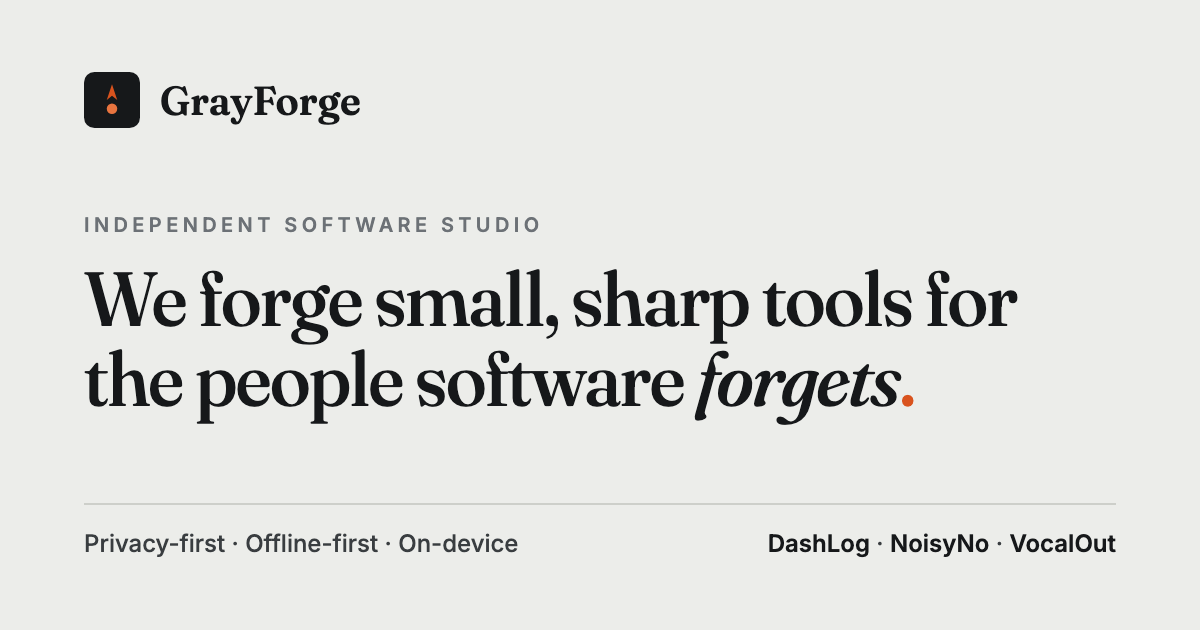
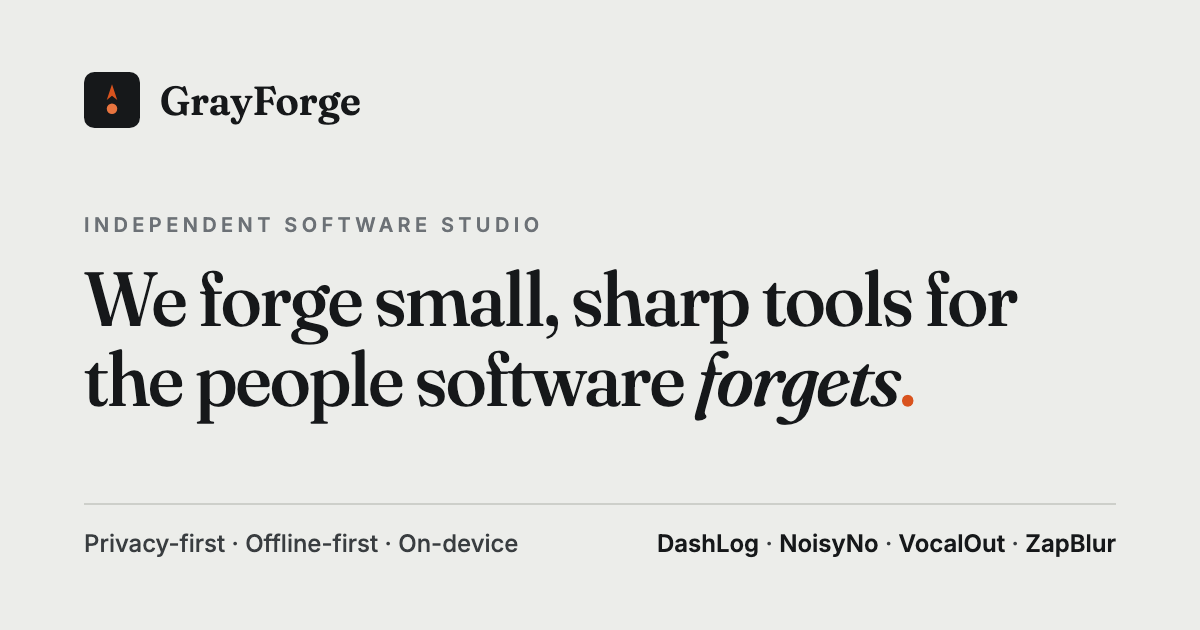
Mark ZapBlur as released on the App Store (iOS)
ZapBlur iOS shipped on 2026-10-31 (App Store id6824579189). Replace the coming-soon wording with App Store links on the home card, /products/, zapblur/ and ko/zapblur/, add sameAs and offers to the JSON-LD, add the privacy policy to the sitemap, and update llms.txt and the OG image.
Android is still listed as coming soon; the checklist tracks what to change at the Android launch.

Changed region(s): [[0.5242, 0.8444, 0.925, 0.8746]]

diff --git a/ko/zapblur/index.html b/ko/zapblur/index.html
@@ -33,7 +33,7 @@
 <meta name="twitter:title" content="올리기 전에 사진 속 행인 얼굴과 원하는 곳을 가리세요 - ZapBlur">
 <meta name="twitter:description" content="올리기 전에 사진 속 행인 얼굴은 자동으로 찾아 가려요. 얼굴이 아닌 곳도 원하는 곳은 직접 가릴 수 있고, 사진은 기기 안에서 처리돼요.">
 <meta name="twitter:image" content="https://grayforge.app/zapblur/og.png">
-<script type="application/ld+json">{"@context":"https://schema.org","@graph":[{"@type":"MobileApplication","@id":"https://grayforge.app/zapblur/#app","name":"ZapBlur","operatingSystem":["iOS","Android"],"applicationCategory":"MultimediaApplication","description":"사진 속 행인 얼굴은 자동으로 찾아 가리고, 그 밖의 원하는 곳은 직접 가리는 사진 모자이크 앱. 사진은 기기 안에서 처리됩니다.","url":"https://grayforge.app/zapblur/","image":"https://grayforge.app/zapblur/og.png","inLanguage":["ko","en"],"publisher":{"@type":"Organization","@id":"https://grayforge.app/#organization","name":"GrayForge","url":"https://grayforge.app/"}},{"@type":"WebPage","@id":"https://grayforge.app/ko/zapblur/#webpage","url":"https://grayforge.app/ko/zapblur/","name":"ZapBlur - 행인 얼굴 모자이크 앱, 원하는 곳은 직접 가리기","description":"올리기 전에 사진 속 행인 얼굴은 자동으로 찾아 가려요. 얼굴이 아닌 곳도 원하는 곳은 직접 가릴 수 있고, 사진은 기기 안에서 처리돼요.","inLanguage":"ko","dateModified":"2026-10-17","about":{"@id":"https://grayforge.app/zapblur/#app"},"publisher":{"@type":"Organization","@id":"https://grayforge.app/#organization","name":"GrayForge","url":"https://grayforge.app/","logo":{"@type":"ImageObject","url":"https://grayforge.app/assets/grayforge-logo-512.png","width":512,"height":512}}},{"@type":"FAQPage","@id":"https://grayforge.app/ko/zapblur/#faq","inLanguage":"ko","isPartOf":{"@id":"https://grayforge.app/ko/zapblur/#webpage"},"mainEntity":[{"@type":"Question","name":"얼굴이 아닌 것도 가릴 수 있나요?","acceptedAnswer":{"@type":"Answer","text":"네, 직접 가릴 수 있어요. 가리고 싶은 곳을 탭하면 그 자리에 타원이나 사각형이 놓이고, 끌어서 옮기고 모서리로 크기를 조절할 수 있어요. 자동으로 찾는 건 얼굴뿐이에요. 다른 건 직접 가려 주세요. 가린 뒤에는 확대해서 알아볼 수 있는지 확인해 주세요."}},{"@type":"Question","name":"가린 곳을 복원할 수 있나요?","acceptedAnswer":{"@type":"Answer","text":"가린 방식에 따라 알아볼 수 있는 경우가 있어요. 약한 강도일수록 그래요. 그래서 ZapBlur는 너무 약한 단계를 제공하지 않아요. 가장 확실한 방법은 단색으로 가리는 거예요."}},{"@type":"Question","name":"얼굴을 못 찾으면요?","acceptedAnswer":{"@type":"Answer","text":"작은 얼굴, 옆모습, 마스크나 선글라스를 쓴 얼굴은 놓칠 수 있어요. 놓친 얼굴은 탭하면 바로 가릴 수 있고, 얼굴을 하나도 못 찾았을 때도 직접 가릴 수 있어요."}},{"@type":"Question","name":"사진을 서버로 보내나요?","acceptedAnswer":{"@type":"Answer","text":"아니요. 얼굴 찾기, 가리기, 저장은 기기 안에서 처리돼요. 직접 가린 영역과 그 안의 내용도 서버로 전송되지 않아요. 사용 통계와 오류 정보가 Google Firebase로 전송되고, 여기에 사진·얼굴·위치 정보는 포함되지 않아요. Android에서는 얼굴 찾기에 쓰는 Google ML Kit이 기기·성능 정보를 자체적으로 보낼 수 있고, 여기에도 사진·얼굴 정보는 포함되지 않아요."}},{"@type":"Question","name":"여러 장을 한꺼번에 가릴 수 있나요?","acceptedAnswer":{"@type":"Answer","text":"아니요, 지금은 한 장씩 가려요."}},{"@type":"Question","name":"앱을 전환할 때 편집 중인 화면이 가려지나요?","acceptedAnswer":{"@type":"Answer","text":"아니요, 아직 지원하지 않아요. 최근 앱 목록에서 편집 중인 사진이 보일 수 있어요."}},{"@type":"Question","name":"앞으로 유료로 바뀌나요?","acceptedAnswer":{"@type":"Answer","text":"지금은 모든 기능을 무료로 쓸 수 있어요. 현재 사진 기능을 유료로 바꿀 계획은 없고, 바뀌게 되면 미리 알리고 날짜와 함께 기록해요. 안전 기능(너무 약한 강도 차단, 찾은 얼굴 기본 가림, 촬영 정보 삭제)은 앞으로도 유료로 바꾸지 않아요. 기준일과 목록은 개인정보처리방침 부록에 있어요."}}]}]}</script>
+<script type="application/ld+json">{"@context":"https://schema.org","@graph":[{"@type":"MobileApplication","@id":"https://grayforge.app/zapblur/#app","name":"ZapBlur","operatingSystem":["iOS"],"applicationCategory":"MultimediaApplication","description":"사진 속 행인 얼굴은 자동으로 찾아 가리고, 그 밖의 원하는 곳은 직접 가리는 사진 모자이크 앱. 사진은 기기 안에서 처리됩니다.","url":"https://grayforge.app/zapblur/","image":"https://grayforge.app/zapblur/og.png","inLanguage":["ko","en"],"publisher":{"@type":"Organization","@id":"https://grayforge.app/#organization","name":"GrayForge","url":"https://grayforge.app/"},"alternateName":"ZapBlur: Pixelate & Censor","offers":{"@type":"Offer","price":"0","priceCurrency":"USD"},"downloadUrl":"https://apps.apple.com/app/id6824579189","sameAs":["https://apps.apple.com/app/id6824579189"]},{"@type":"WebPage","@id":"https://grayforge.app/ko/zapblur/#webpage","url":"https://grayforge.app/ko/zapblur/","name":"ZapBlur - 행인 얼굴 모자이크 앱, 원하는 곳은 직접 가리기","description":"올리기 전에 사진 속 행인 얼굴은 자동으로 찾아 가려요. 얼굴이 아닌 곳도 원하는 곳은 직접 가릴 수 있고, 사진은 기기 안에서 처리돼요.","inLanguage":"ko","dateModified":"2026-11-07","about":{"@id":"https://grayforge.app/zapblur/#app"},"publisher":{"@type":"Organization","@id":"https://grayforge.app/#organization","name":"GrayForge","url":"https://grayforge.app/","logo":{"@type":"ImageObject","url":"https://grayforge.app/assets/grayforge-logo-512.png","width":512,"height":512}}},{"@type":"FAQPage","@id":"https://grayforge.app/ko/zapblur/#faq","inLanguage":"ko","isPartOf":{"@id":"https://grayforge.app/ko/zapblur/#webpage"},"mainEntity":[{"@type":"Question","name":"얼굴이 아닌 것도 가릴 수 있나요?","acceptedAnswer":{"@type":"Answer","text":"네, 직접 가릴 수 있어요. 가리고 싶은 곳을 탭하면 그 자리에 타원이나 사각형이 놓이고, 끌어서 옮기고 모서리로 크기를 조절할 수 있어요. 자동으로 찾는 건 얼굴뿐이에요. 다른 건 직접 가려 주세요. 가린 뒤에는 확대해서 알아볼 수 있는지 확인해 주세요."}},{"@type":"Question","name":"가린 곳을 복원할 수 있나요?","acceptedAnswer":{"@type":"Answer","text":"가린 방식에 따라 알아볼 수 있는 경우가 있어요. 약한 강도일수록 그래요. 그래서 ZapBlur는 너무 약한 단계를 제공하지 않아요. 가장 확실한 방법은 단색으로 가리는 거예요."}},{"@type":"Question","name":"얼굴을 못 찾으면요?","acceptedAnswer":{"@type":"Answer","text":"작은 얼굴, 옆모습, 마스크나 선글라스를 쓴 얼굴은 놓칠 수 있어요. 놓친 얼굴은 탭하면 바로 가릴 수 있고, 얼굴을 하나도 못 찾았을 때도 직접 가릴 수 있어요."}},{"@type":"Question","name":"사진을 서버로 보내나요?","acceptedAnswer":{"@type":"Answer","text":"아니요. 얼굴 찾기, 가리기, 저장은 기기 안에서 처리돼요. 직접 가린 영역과 그 안의 내용도 서버로 전송되지 않아요. 사용 통계와 오류 정보가 Google Firebase로 전송되고, 여기에 사진·얼굴·위치 정보는 포함되지 않아요. Android에서는 얼굴 찾기에 쓰는 Google ML Kit이 기기·성능 정보를 자체적으로 보낼 수 있고, 여기에도 사진·얼굴 정보는 포함되지 않아요."}},{"@type":"Question","name":"여러 장을 한꺼번에 가릴 수 있나요?","acceptedAnswer":{"@type":"Answer","text":"아니요, 지금은 한 장씩 가려요."}},{"@type":"Question","name":"앱을 전환할 때 편집 중인 화면이 가려지나요?","acceptedAnswer":{"@type":"Answer","text":"아니요, 아직 지원하지 않아요. 최근 앱 목록에서 편집 중인 사진이 보일 수 있어요."}},{"@type":"Question","name":"앞으로 유료로 바뀌나요?","acceptedAnswer":{"@type":"Answer","text":"지금은 모든 기능을 무료로 쓸 수 있어요. 현재 사진 기능을 유료로 바꿀 계획은 없고, 바뀌게 되면 미리 알리고 날짜와 함께 기록해요. 안전 기능(너무 약한 강도 차단, 찾은 얼굴 기본 가림, 촬영 정보 삭제)은 앞으로도 유료로 바꾸지 않아요. 기준일과 목록은 개인정보처리방침 부록에 있어요."}}]}]}</script>
   <script type="application/ld+json">
   {
     "@context": "https://schema.org",
@@ -70,8 +70,8 @@
 <div class="measure">
 <h1>올리기 전에 사진 속 행인 얼굴과 원하는 곳을 가리세요</h1>
 <p class="sub">거리·카페·여행지 사진에 찍힌 행인 얼굴은 자동으로 찾아 모자이크해요. 그 밖에 가리고 싶은 곳은 직접 가릴 수 있어요. 사진은 기기 안에서 처리돼요.</p>
-<p class="status" data-grep-allow="coming-soon">곧 App Store와 Google Play에 출시돼요.</p>
-<p class="cta"><a href="#privacy">개인정보 한눈에 보기</a></p>
+<p class="status" data-grep-allow="coming-soon">지금 App Store에서 iPhone용으로 받을 수 있어요. Android 버전은 곧 출시돼요.</p>
+<p class="cta"><a href="https://apps.apple.com/app/id6824579189" rel="noopener">App Store에서 받기</a><span aria-hidden="true"> · </span><a href="#privacy">개인정보 한눈에 보기</a></p>
 </div>
 <div class="mark" aria-hidden="true"><i></i><i></i><i></i><i></i><i></i><i></i><i></i><i></i><i></i></div>
 </div>

diff --git a/zapblur/index.html b/zapblur/index.html
@@ -33,7 +33,7 @@
 <meta name="twitter:title" content="Cover bystanders&#x27; faces before you post - ZapBlur">
 <meta name="twitter:description" content="ZapBlur covers bystanders&#x27; faces automatically. Cover anything else by hand. Photos are processed on your device.">
 <meta name="twitter:image" content="https://grayforge.app/zapblur/og.png">
-<script type="application/ld+json">{"@context":"https://schema.org","@graph":[{"@type":"MobileApplication","@id":"https://grayforge.app/zapblur/#app","name":"ZapBlur","operatingSystem":["iOS","Android"],"applicationCategory":"MultimediaApplication","description":"ZapBlur covers bystanders' faces automatically. Cover anything else by hand. Photos are processed on your device.","url":"https://grayforge.app/zapblur/","image":"https://grayforge.app/zapblur/og.png","inLanguage":["ko","en"],"publisher":{"@type":"Organization","@id":"https://grayforge.app/#organization","name":"GrayForge","url":"https://grayforge.app/"}},{"@type":"WebPage","@id":"https://grayforge.app/zapblur/#webpage","url":"https://grayforge.app/zapblur/","name":"ZapBlur - Face Blur App, Cover Anything Else by Hand","description":"ZapBlur covers bystanders' faces automatically. Cover anything else by hand. Photos are processed on your device.","inLanguage":"en","dateModified":"2026-10-17","about":{"@id":"https://grayforge.app/zapblur/#app"},"publisher":{"@type":"Organization","@id":"https://grayforge.app/#organization","name":"GrayForge","url":"https://grayforge.app/","logo":{"@type":"ImageObject","url":"https://grayforge.app/assets/grayforge-logo-512.png","width":512,"height":512}}},{"@type":"FAQPage","@id":"https://grayforge.app/zapblur/#faq","inLanguage":"en","isPartOf":{"@id":"https://grayforge.app/zapblur/#webpage"},"mainEntity":[{"@type":"Question","name":"Can it cover things other than faces?","acceptedAnswer":{"@type":"Answer","text":"Yes, by hand. Tap the spot you want to cover and an oval or rectangle is placed there. Drag it to move it, or drag a corner to resize it. Only faces are found automatically. After covering, zoom in and check that nothing is still readable or recognizable."}},{"@type":"Question","name":"Can covered areas be restored?","acceptedAnswer":{"@type":"Answer","text":"Depending on how an area is covered, it may still be recognizable, and weaker strengths are more likely to be. That is why ZapBlur does not offer very weak steps. Solid fill is the surest option."}},{"@type":"Question","name":"What if it misses a face?","acceptedAnswer":{"@type":"Answer","text":"Small faces, side views, masks and sunglasses can be missed. Tap a missed face to cover it. This works even when no face is found at all."}},{"@type":"Question","name":"Do you send my photos to a server?","acceptedAnswer":{"@type":"Answer","text":"No. Finding faces, covering them and saving all happen on your device. Areas you cover by hand, and what is inside them, are not sent either. Usage stats and crash reports are sent to Google Firebase, and they do not include photos, faces or location. On Android, Google ML Kit, which finds the faces, may also send device and performance info on its own, and that does not include photos or faces."}},{"@type":"Question","name":"Can I cover several photos at once?","acceptedAnswer":{"@type":"Answer","text":"No. You cover one photo at a time."}},{"@type":"Question","name":"Does it hide the screen when I switch apps?","acceptedAnswer":{"@type":"Answer","text":"No, not yet. The photo you are editing may be visible in the recent apps list."}},{"@type":"Question","name":"Will it become paid?","acceptedAnswer":{"@type":"Answer","text":"Right now every feature is free. We have no plan to make today's photo features paid, and if that changes we will announce it in advance and log the date. Safety features (blocking very weak strengths, covering detected faces by default, removing shooting info) will not become paid. The date and list are in the privacy policy appendix."}}]}]}</script>
+<script type="application/ld+json">{"@context":"https://schema.org","@graph":[{"@type":"MobileApplication","@id":"https://grayforge.app/zapblur/#app","name":"ZapBlur","operatingSystem":["iOS"],"applicationCategory":"MultimediaApplication","description":"ZapBlur covers bystanders' faces automatically. Cover anything else by hand. Photos are processed on your device.","url":"https://grayforge.app/zapblur/","image":"https://grayforge.app/zapblur/og.png","inLanguage":["ko","en"],"publisher":{"@type":"Organization","@id":"https://grayforge.app/#organization","name":"GrayForge","url":"https://grayforge.app/"},"alternateName":"ZapBlur: Pixelate & Censor","offers":{"@type":"Offer","price":"0","priceCurrency":"USD"},"downloadUrl":"https://apps.apple.com/app/id6824579189","sameAs":["https://apps.apple.com/app/id6824579189"]},{"@type":"WebPage","@id":"https://grayforge.app/zapblur/#webpage","url":"https://grayforge.app/zapblur/","name":"ZapBlur - Face Blur App, Cover Anything Else by Hand","description":"ZapBlur covers bystanders' faces automatically. Cover anything else by hand. Photos are processed on your device.","inLanguage":"en","dateModified":"2026-11-07","about":{"@id":"https://grayforge.app/zapblur/#app"},"publisher":{"@type":"Organization","@id":"https://grayforge.app/#organization","name":"GrayForge","url":"https://grayforge.app/","logo":{"@type":"ImageObject","url":"https://grayforge.app/assets/grayforge-logo-512.png","width":512,"height":512}}},{"@type":"FAQPage","@id":"https://grayforge.app/zapblur/#faq","inLanguage":"en","isPartOf":{"@id":"https://grayforge.app/zapblur/#webpage"},"mainEntity":[{"@type":"Question","name":"Can it cover things other than faces?","acceptedAnswer":{"@type":"Answer","text":"Yes, by hand. Tap the spot you want to cover and an oval or rectangle is placed there. Drag it to move it, or drag a corner to resize it. Only faces are found automatically. After covering, zoom in and check that nothing is still readable or recognizable."}},{"@type":"Question","name":"Can covered areas be restored?","acceptedAnswer":{"@type":"Answer","text":"Depending on how an area is covered, it may still be recognizable, and weaker strengths are more likely to be. That is why ZapBlur does not offer very weak steps. Solid fill is the surest option."}},{"@type":"Question","name":"What if it misses a face?","acceptedAnswer":{"@type":"Answer","text":"Small faces, side views, masks and sunglasses can be missed. Tap a missed face to cover it. This works even when no face is found at all."}},{"@type":"Question","name":"Do you send my photos to a server?","acceptedAnswer":{"@type":"Answer","text":"No. Finding faces, covering them and saving all happen on your device. Areas you cover by hand, and what is inside them, are not sent either. Usage stats and crash reports are sent to Google Firebase, and they do not include photos, faces or location. On Android, Google ML Kit, which finds the faces, may also send device and performance info on its own, and that does not include photos or faces."}},{"@type":"Question","name":"Can I cover several photos at once?","acceptedAnswer":{"@type":"Answer","text":"No. You cover one photo at a time."}},{"@type":"Question","name":"Does it hide the screen when I switch apps?","acceptedAnswer":{"@type":"Answer","text":"No, not yet. The photo you are editing may be visible in the recent apps list."}},{"@type":"Question","name":"Will it become paid?","acceptedAnswer":{"@type":"Answer","text":"Right now every feature is free. We have no plan to make today's photo features paid, and if that changes we will announce it in advance and log the date. Safety features (blocking very weak strengths, covering detected faces by default, removing shooting info) will not become paid. The date and list are in the privacy policy appendix."}}]}]}</script>
   <script type="application/ld+json">
   {
     "@context": "https://schema.org",
@@ -70,8 +70,8 @@
 <div class="measure">
 <h1>Cover bystanders&#x27; faces before you post</h1>
 <p class="sub">ZapBlur finds faces in your street, cafe and trip photos and pixelates them automatically. Cover anything else by hand. Photos are processed on your device.</p>
-<p class="status" data-grep-allow="coming-soon">Coming soon to the App Store and Google Play.</p>
-<p class="cta"><a href="#privacy">Your privacy at a glance</a></p>
+<p class="status" data-grep-allow="coming-soon">Out now on the App Store for iPhone. The Android version is coming soon.</p>
+<p class="cta"><a href="https://apps.apple.com/app/id6824579189" rel="noopener">Download on the App Store</a><span aria-hidden="true"> · </span><a href="#privacy">Your privacy at a glance</a></p>
 </div>
 <div class="mark" aria-hidden="true"><i></i><i></i><i></i><i></i><i></i><i></i><i></i><i></i><i></i></div>
 </div>

diff --git a/products/index.html b/products/index.html
@@ -7,8 +7,8 @@
   <meta name="theme-color" content="#ECEDEA" media="(prefers-color-scheme: light)" />
   <meta name="theme-color" content="#131517" media="(prefers-color-scheme: dark)" />
 
-  <title>GrayForge Apps — DashLog, NoisyNo, VocalOut</title>
-  <meta name="description" content="Every app from GrayForge in one list: DashLog (GPS drive tracker), NoisyNo (voice noise remover) and VocalOut (vocal remover). Privacy-first, offline-first, no accounts." />
+  <title>GrayForge Apps — DashLog, NoisyNo, VocalOut, ZapBlur</title>
+  <meta name="description" content="Every GrayForge app in one list: DashLog, NoisyNo, VocalOut and ZapBlur — drive tracker, noise remover, vocal remover, face blur. No accounts." />
   <meta name="author" content="GrayForge" />
   <meta name="robots" content="index, follow, max-image-preview:large" />
   <link rel="canonical" href="https://grayforge.app/products/" />
@@ -18,15 +18,15 @@
   <meta property="og:type" content="website" />
   <meta property="og:site_name" content="GrayForge" />
   <meta property="og:url" content="https://grayforge.app/products/" />
-  <meta property="og:title" content="GrayForge Apps — DashLog, NoisyNo, VocalOut" />
+  <meta property="og:title" content="GrayForge Apps — DashLog, NoisyNo, VocalOut, ZapBlur" />
   <meta property="og:description" content="Small, sharp, privacy-first and offline-first apps from an independent one-person studio." />
   <meta property="og:image" content="https://grayforge.app/assets/og-grayforge.png" />
   <meta property="og:image:width" content="1200" />
   <meta property="og:image:height" content="630" />
-  <meta property="og:image:alt" content="GrayForge — independent software studio. Makers of DashLog, NoisyNo and VocalOut." />
+  <meta property="og:image:alt" content="GrayForge — independent software studio. Makers of DashLog, NoisyNo, VocalOut and ZapBlur." />
   <meta name="twitter:card" content="summary_large_image" />
   <meta name="twitter:title" content="GrayForge Apps" />
-  <meta name="twitter:description" content="DashLog, NoisyNo and VocalOut — privacy-first, offline-first apps with no accounts." />
+  <meta name="twitter:description" content="DashLog, NoisyNo, VocalOut and ZapBlur — privacy-first, offline-first apps with no accounts." />
 
   <script type="application/ld+json">
   {
@@ -47,11 +47,12 @@
         "@type": "ItemList",
         "@id": "https://grayforge.app/products/#list",
         "name": "GrayForge apps",
-        "numberOfItems": 3,
+        "numberOfItems": 4,
         "itemListElement": [
           {"@type": "ListItem", "position": 1, "item": {"@id": "https://grayforge.app/dashlog/#app", "name": "DashLog", "url": "https://grayforge.app/dashlog/"}},
           {"@type": "ListItem", "position": 2, "item": {"@id": "https://grayforge.app/noisyno/#app", "name": "NoisyNo", "url": "https://grayforge.app/noisyno/"}},
-          {"@type": "ListItem", "position": 3, "item": {"@id": "https://grayforge.app/vocalout/#app", "name": "VocalOut", "url": "https://grayforge.app/vocalout/"}}
+          {"@type": "ListItem", "position": 3, "item": {"@id": "https://grayforge.app/vocalout/#app", "name": "VocalOut", "url": "https://grayforge.app/vocalout/"}},
+          {"@type": "ListItem", "position": 4, "item": {"@id": "https://grayforge.app/zapblur/#app", "name": "ZapBlur", "url": "https://grayforge.app/zapblur/"}}
         ]
       }
     ]
@@ -198,6 +199,7 @@
     .s-dashlog  { background: radial-gradient(120% 90% at 50% 0%, #2f6bd6 0%, #123a7a 55%, #0a1a38 100%); }
     .s-noisyno  { background: radial-gradient(120% 90% at 50% 0%, #e0a13d 0%, #a8691a 55%, #3b2810 100%); }
     .s-vocalout { background: radial-gradient(120% 90% at 50% 0%, #5a4616 0%, #25200f 55%, #0c0e11 100%); }
+    .s-zapblur  { background: radial-gradient(120% 90% at 50% 0%, #ff2d8b 0%, #b00058 55%, #2a0c1a 100%); }
 
     .body { display: flex; flex-direction: column; flex: 1; padding: 24px 26px 26px; }
 
@@ -377,6 +379,33 @@
               <a class="btn play" href="https://play.google.com/store/apps/details?id=com.grayforge.vocalout" aria-label="VocalOut on Google Play">Google Play</a>
             </div>
             <a class="more" href="../vocalout/">Learn more <span class="arrow" aria-hidden="true">→</span></a>
+          </div>
+        </div>
+      </li>
+
+      <!-- ZapBlur (iOS released 2026-10-31; Android coming soon) -->
+      <li class="card">
+        <div class="stage s-zapblur">
+          <img src="assets/zapblur-1.webp" alt="ZapBlur covering the faces it found in a group photo" width="660" height="1434" loading="lazy" decoding="async" />
+          <img src="assets/zapblur-2.webp" alt="ZapBlur covering a license plate by hand with a rectangle" width="660" height="1434" loading="lazy" decoding="async" />
+          <img src="assets/zapblur-3.webp" alt="ZapBlur leaving one face visible and the others covered" width="660" height="1434" loading="lazy" decoding="async" />
+        </div>
+        <div class="body">
+          <div class="head">
+            <div class="icon"><img src="../zapblur/assets/icon-192.png" alt="" width="64" height="64" /></div>
+            <div>
+              <h2>ZapBlur</h2>
+              <span class="cat">Face Blur</span>
+            </div>
+          </div>
+          <p class="desc">Cover bystanders' faces before you post. ZapBlur finds the faces in a photo and covers them automatically; you cover anything else by hand. Photos are processed on your device.</p>
+          <ul class="tags"><li>On-device</li><li>No ads</li><li>No account</li></ul>
+          <p class="platforms"><strong>iPhone</strong> · Android coming soon</p>
+          <div class="actions">
+            <div class="stores">
+              <a class="btn ios" href="https://apps.apple.com/app/id6824579189" aria-label="ZapBlur on the App Store">App Store</a>
+            </div>
+            <a class="more" href="../zapblur/">Learn more <span class="arrow" aria-hidden="true">→</span></a>
           </div>
         </div>
       </li>

diff --git a/index.html b/index.html
@@ -6,7 +6,7 @@
 
   <!-- Primary SEO -->
   <title>GrayForge — Independent software studio</title>
-  <meta name="description" content="GrayForge is a one-person software studio making small, privacy-first, offline-first apps: DashLog, NoisyNo and VocalOut. ZapBlur is coming soon." />
+  <meta name="description" content="GrayForge is a one-person software studio making small, privacy-first, offline-first apps: DashLog, NoisyNo, VocalOut and ZapBlur." />
   <meta name="keywords" content="GrayForge, independent software studio, indie developer, privacy-first apps, offline apps, on-device, niche software, DashLog, NoisyNo, VocalOut" />
   <meta name="author" content="GrayForge" />
   <meta name="robots" content="index, follow, max-image-preview:large" />
@@ -21,11 +21,11 @@
   <meta property="og:site_name" content="GrayForge" />
   <meta property="og:url" content="https://grayforge.app/" />
   <meta property="og:title" content="GrayForge — Independent software studio" />
-  <meta property="og:description" content="An independent one-person studio forging small, sharp, privacy-first and offline-first tools. Makers of DashLog, NoisyNo and VocalOut. ZapBlur is coming soon." />
+  <meta property="og:description" content="An independent one-person studio forging small, sharp, privacy-first and offline-first tools. Makers of DashLog, NoisyNo, VocalOut and ZapBlur." />
   <meta property="og:image" content="https://grayforge.app/assets/og-grayforge.png" />
   <meta property="og:image:width" content="1200" />
   <meta property="og:image:height" content="630" />
-  <meta property="og:image:alt" content="GrayForge — We forge small, sharp tools for the people software forgets. Makers of DashLog, NoisyNo and VocalOut." />
+  <meta property="og:image:alt" content="GrayForge — We forge small, sharp tools for the people software forgets. Makers of DashLog, NoisyNo, VocalOut and ZapBlur." />
 
   <meta name="twitter:card" content="summary_large_image" />
   <meta name="twitter:title" content="GrayForge — Independent software studio" />
@@ -126,10 +126,14 @@
         "@id": "https://grayforge.app/zapblur/#app",
         "name": "ZapBlur",
         "url": "https://grayforge.app/zapblur/",
-        "description": "A face blur app for iOS and Android, coming soon. It finds bystanders' faces in a photo and covers them automatically; you cover anything else by hand. Photos are processed on your device.",
+        "alternateName": "ZapBlur: Pixelate & Censor",
+        "description": "A free face blur app for iPhone that finds bystanders' faces in a photo and covers them automatically; you cover anything else by hand. Photos are processed on your device. The Android version is coming soon.",
         "applicationCategory": "MultimediaApplication",
-        "operatingSystem": ["iOS", "Android"],
-        "publisher": {"@id": "https://grayforge.app/#organization"}
+        "operatingSystem": ["iOS"],
+        "publisher": {"@id": "https://grayforge.app/#organization"},
+        "sameAs": [
+          "https://apps.apple.com/app/id6824579189"
+        ]
       }
     ]
   }
@@ -406,7 +410,7 @@
           </div>
           <div class="item">
             <div class="k">Released</div>
-            <div class="v"><a href="#work">3 products ↓</a></div>
+            <div class="v"><a href="#work">4 products ↓</a></div>
           </div>
           <div class="item">
             <div class="k">Platforms</div>
@@ -456,7 +460,7 @@
         <div class="aside">
           <span class="label">Work</span>
           <div class="aside-title">Products</div>
-          <p class="aside-note">On the App Store and Google Play. ZapBlur is coming soon.</p>
+          <p class="aside-note">On the App Store and Google Play. ZapBlur for Android is coming soon.</p>
         </div>
 
         <div class="ledger">
@@ -524,21 +528,24 @@
             </div>
           </article>
 
-          <!-- ZapBlur (coming soon: no store links yet) -->
+          <!-- ZapBlur (iOS released 2026-10-31; Android coming soon) -->
           <article class="work reveal">
             <div class="idx">04</div>
             <div class="icon"><img src="zapblur/assets/icon-192.png" alt="ZapBlur app icon" loading="lazy" /></div>
             <div class="body">
               <div class="title-line">
                 <h3>ZapBlur</h3>
-                <span class="cat">Face Blur App · Coming soon</span>
+                <span class="cat">Face Blur App · 2026</span>
               </div>
               <p>Cover bystanders' faces before you post. ZapBlur finds the faces in a photo and pixelates them automatically; you cover anything else by hand. Photos are processed on your device.</p>
               <div class="tags"><span>On-device</span><span>No ads</span><span>No account</span></div>
             </div>
             <div class="links">
               <a class="open" href="zapblur/">Visit <span class="arrow">↗</span></a>
-              <div class="stores"><span class="soon">Coming soon to the App Store and Google Play</span></div>
+              <div class="stores">
+                <a href="https://apps.apple.com/app/id6824579189" target="_blank" rel="noopener">App Store</a>
+                <span class="soon">Android coming soon</span>
+              </div>
             </div>
           </article>
 

diff --git a/blog/index.html b/blog/index.html
@@ -26,7 +26,7 @@
   <meta property="og:image" content="https://grayforge.app/assets/og-grayforge.png" />
   <meta property="og:image:width" content="1200" />
   <meta property="og:image:height" content="630" />
-  <meta property="og:image:alt" content="GrayForge — independent software studio. Makers of DashLog, NoisyNo and VocalOut." />
+  <meta property="og:image:alt" content="GrayForge — independent software studio. Makers of DashLog, NoisyNo, VocalOut and ZapBlur." />
 
   <meta name="twitter:card" content="summary_large_image" />
   <meta name="twitter:title" content="GrayForge Journal" />

diff --git a/404.html b/404.html
@@ -74,6 +74,7 @@
         <li><a href="/dashlog/"><span class="t">DashLog</span><span class="d">GPS drive tracker</span></a></li>
         <li><a href="/noisyno/"><span class="t">NoisyNo</span><span class="d">Voice noise remover</span></a></li>
         <li><a href="/vocalout/"><span class="t">VocalOut</span><span class="d">Vocal remover</span></a></li>
+        <li><a href="/zapblur/"><span class="t">ZapBlur</span><span class="d">Face blur for photos</span></a></li>
         <li><a href="/blog/"><span class="t">Journal</span><span class="d">How-to guides</span></a></li>
       </ul>
     </div>

diff --git a/.github/AEO_GEO_CHECKLIST.md b/.github/AEO_GEO_CHECKLIST.md
@@ -31,7 +31,8 @@ Last reviewed: 2026-10-30
 - [ ] Validate JSON-LD and mobile layout after structural edits.
 - [ ] When a guide gets a translation, add the language link to the metabar of every language version, and point the matching localized product page at the localized guide.
 - [ ] Keep `<title>` within about 60 characters (CJK characters count double) and meta descriptions within about 155 characters.
-- [ ] ZapBlur launch: it is listed as *coming soon* (home card and JSON-LD without `sameAs`, `llms.txt`, `sitemap.xml`, IndexNow, the status line of `zapblur/` and `ko/zapblur/`). At launch replace the coming-soon wording everywhere with the store links, add `sameAs` to the home JSON-LD, add the ZapBlur privacy policy page to `sitemap.xml` (it is left out until the policy is final), add ZapBlur to `/products/`, and re-read the pages for claims that were true only before release.
+- [x] ZapBlur iOS launch (App Store id6824579189, released 2026-10-31): App Store links on the home card, `/products/`, `zapblur/` and `ko/zapblur/`; `sameAs` in the home and product-page JSON-LD; privacy policy added to `sitemap.xml`; `llms.txt` updated.
+- [ ] ZapBlur Android launch: it is still listed as *Android coming soon* (home card and aside note, `/products/` card, the status line of `zapblur/` and `ko/zapblur/`, `llms.txt`, and `operatingSystem: ["iOS"]` in the JSON-LD). At launch add the Google Play link everywhere, add Android to `operatingSystem` and the Play URL to `sameAs`, and re-read the pages for claims that were true only before the Android release.
 
 ## External Authority Gaps
 
@@ -44,6 +45,6 @@ Last reviewed: 2026-10-30
 
 - NoisyNo and DashLog are currently free and require no subscription. They are not lifetime-purchase products.
 - NoisyNo processes user audio and video files on-device, but limited Firebase analytics and diagnostics may be used.
-- ZapBlur is not released yet: do not describe it as available, free or priced until its store listings exist. Photos are processed on-device and never leave it; Firebase usage and crash data are sent only after the user allows it; on Android, Google ML Kit may send device and performance information regardless of that choice.
+- ZapBlur is on the App Store for iPhone and free to download; the Android version is not released, so do not describe it as available on Google Play or Android. Photos are processed on-device and never leave it; Firebase usage and crash data are sent only after the user allows it; on Android, Google ML Kit may send device and performance information regardless of that choice.
 - DashLog stores personal drive records locally and does not upload the drive archive to a DashLog server, but limited Firebase analytics and diagnostics may be used.
 - DashLog is a drive logbook, not a tax-ready mileage log: drives export as CSV or GPX, with no tax formats or business/personal categories. Do not pitch it for work mileage, taxes or reimbursement (in German, avoid "Fahrtenbuch").
